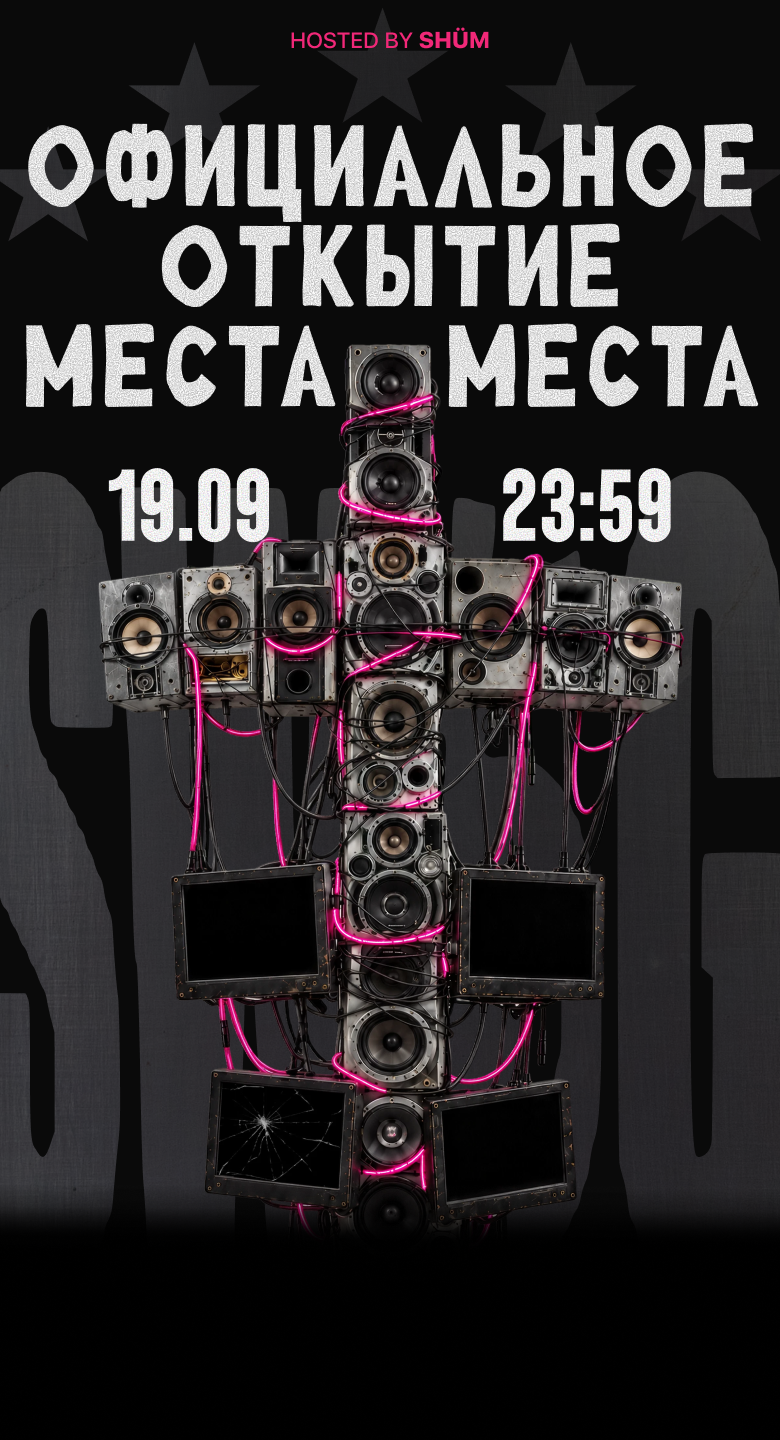
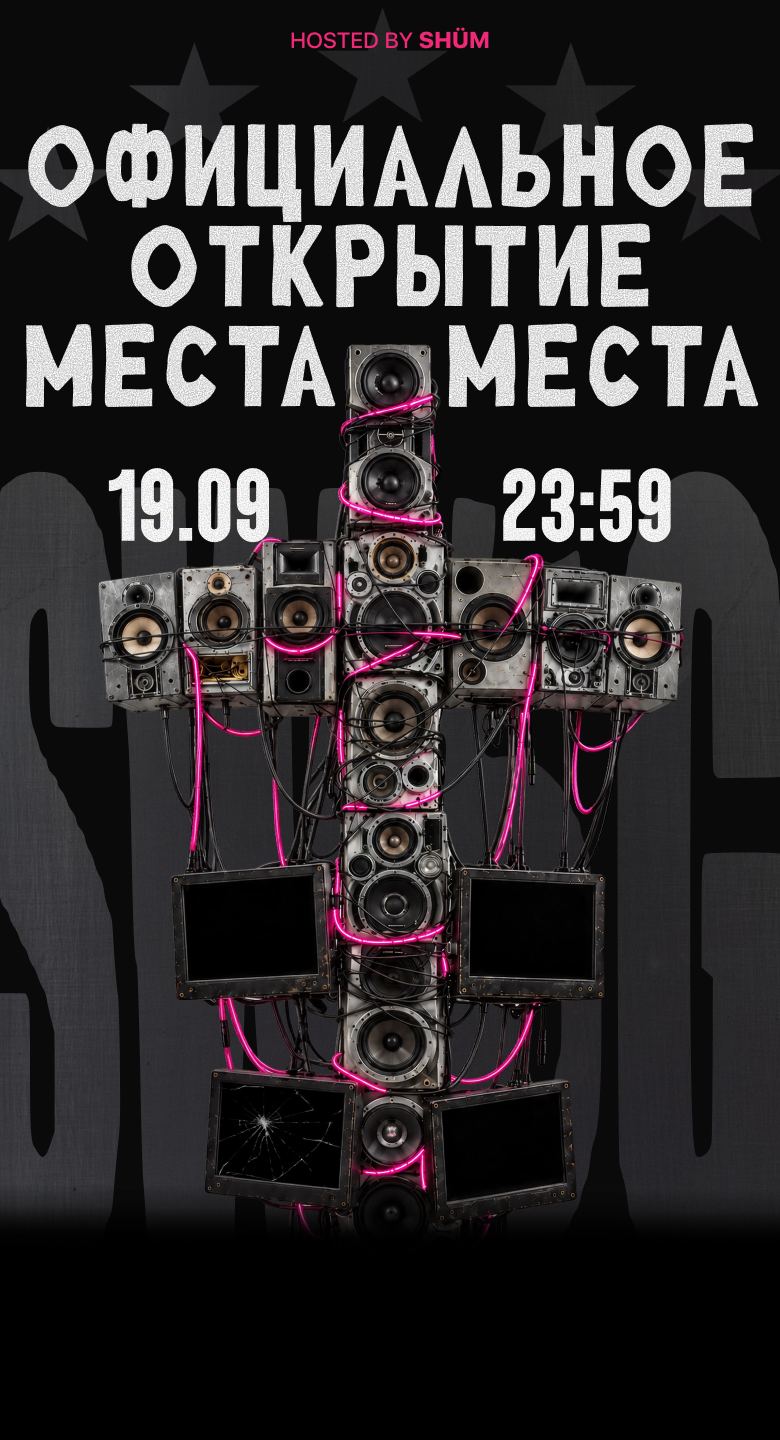
Update home background

Changed region(s): [[0.1538, 0.1562, 0.8308, 0.2188]]

diff --git a/site/index.html b/site/index.html
@@ -9,7 +9,7 @@
     <script>
       (() => {
         const sources = {
-          home: "backgrounds/home.png?v=20260915home2",
+          home: "backgrounds/home.png?v=20260915home3",
           lineup: "backgrounds/lineup.png?v=7d078d4963",
           bar: "backgrounds/bar.png?v=20260915bar4",
           rsvp: "backgrounds/rsvp.png?v=4099bfd00d",
@@ -41,7 +41,7 @@
     <main class="app" data-app data-page="loading">
       <div class="scene" aria-live="polite">
         <div class="backgrounds" aria-hidden="true">
-          <img class="background" data-background="home" data-src="backgrounds/home.png?v=20260915home2" width="780" height="1440" decoding="async" alt="" />
+          <img class="background" data-background="home" data-src="backgrounds/home.png?v=20260915home3" width="780" height="1440" decoding="async" alt="" />
           <img class="background" data-background="lineup" data-src="backgrounds/lineup.png?v=7d078d4963" width="780" height="1440" decoding="async" alt="" />
           <div class="background bar-background" data-background="bar">
             <img
